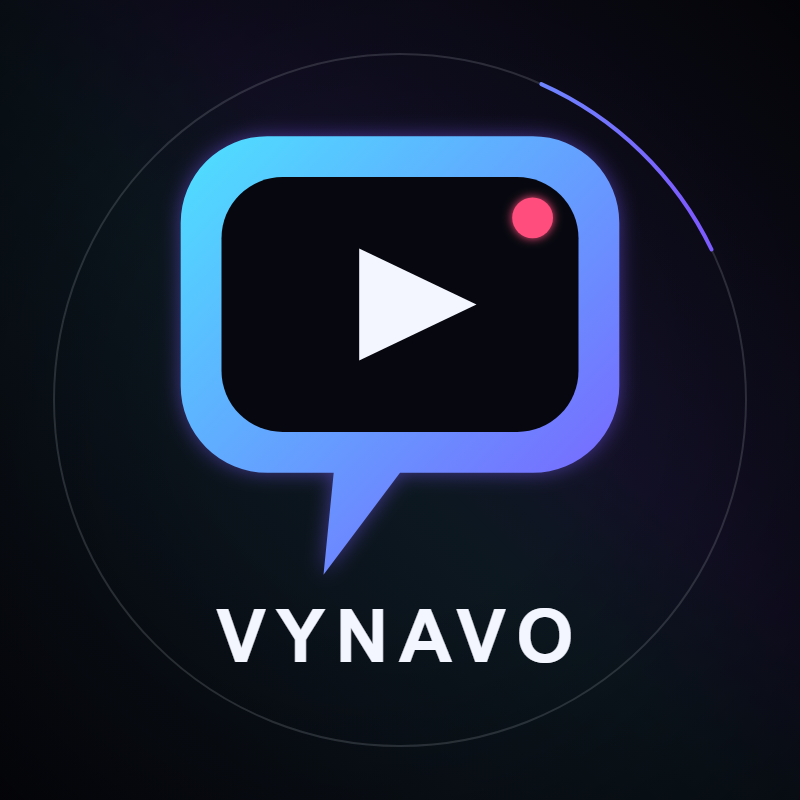
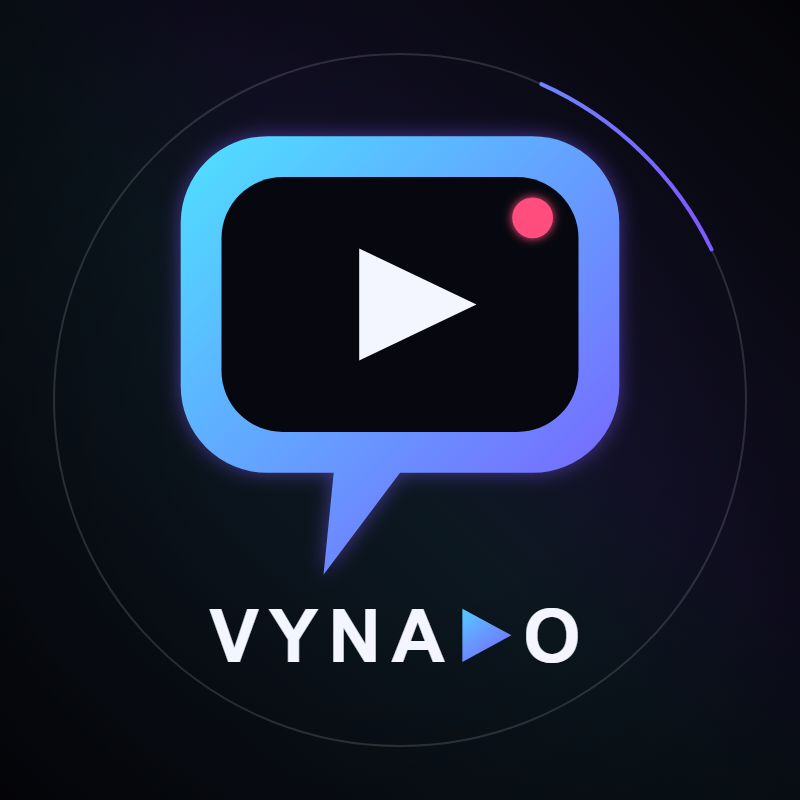
identidad final F+C: simbolo La Burbuja + wordmark VYNA-play-O en perfil y portada

Changed region(s): [[0.25, 0.75, 0.75, 0.8438]]

diff --git a/brand/brand4.html b/brand/brand4.html
@@ -58,6 +58,28 @@ function fondo(ctx,W,H,intenso){
   ctx.fillStyle=r;ctx.fillRect(0,0,W,H);
 }
 
+
+// ── Wordmark C: VYNA▶O — el play sustituye a la segunda V ──────────────────
+function wordmarkPlay(ctx,cx,cy,px,track){
+  ctx.font=`700 ${px}px "Space Grotesk", Inter, sans-serif`;
+  ctx.letterSpacing=`${track}px`;
+  const t1="VYNA", t2="O";
+  const w1=ctx.measureText(t1).width;
+  const playW=px*0.72, gap=px*0.10;
+  const w2=ctx.measureText(t2).width;
+  const total=w1+gap+playW+gap+w2;
+  const x0=cx-total/2;
+  ctx.fillStyle=TX;ctx.fillText(t1,x0,cy);
+  const pxx=x0+w1+gap;
+  const g=grad(ctx,pxx,cy-px,pxx+playW,cy);
+  ctx.fillStyle=g;
+  ctx.beginPath();
+  ctx.moveTo(pxx,cy-px*0.72);ctx.lineTo(pxx+playW*0.92,cy-px*0.36);ctx.lineTo(pxx,cy);ctx.closePath();ctx.fill();
+  ctx.fillStyle=TX;ctx.fillText(t2,pxx+playW+gap,cy);
+  ctx.letterSpacing="0px";
+  return total;
+}
+
 function drawPerfil(){
   const c=document.getElementById("perfil"),ctx=c.getContext("2d");
   fondo(ctx,800,800,true);
@@ -66,11 +88,7 @@ function drawPerfil(){
   ctx.beginPath();ctx.arc(400,400,346,-1.15,-0.45);
   ctx.strokeStyle=grad(ctx,120,80,680,240);ctx.lineWidth=4;ctx.lineCap="round";ctx.stroke();
   mark(ctx,400,330,2.55);
-  ctx.font="700 74px 'Space Grotesk', Inter, sans-serif";
-  ctx.letterSpacing="10px";
-  const t="VYNAVO", w=ctx.measureText(t).width;
-  ctx.fillStyle=TX;ctx.fillText(t,(800-w)/2,662);
-  ctx.letterSpacing="0px";
+  wordmarkPlay(ctx,400,662,74,10);
 }
 
 function drawBanner(){
@@ -78,11 +96,7 @@ function drawBanner(){
   const W=2560,H=1440;fondo(ctx,W,H,false);
   const cy=H/2-20;
   mark(ctx,W/2,cy-170,1.2);
-  ctx.font="700 176px 'Space Grotesk', Inter, sans-serif";
-  ctx.letterSpacing="22px";
-  const t="VYNAVO", w=ctx.measureText(t).width;
-  ctx.fillStyle=TX;ctx.fillText(t,(W-w)/2,cy+128);
-  ctx.letterSpacing="0px";
+  wordmarkPlay(ctx,W/2,cy+128,176,22);
   const lw=560;
   ctx.fillStyle=grad(ctx,W/2-lw/2,0,W/2+lw/2,0);
   ctx.fillRect(W/2-lw/2,cy+178,lw,2);

diff --git a/brand/solo4-banner.html b/brand/solo4-banner.html
@@ -57,6 +57,28 @@ function fondo(ctx,W,H,intenso){
   ctx.fillStyle=r;ctx.fillRect(0,0,W,H);
 }
 
+
+// ── Wordmark C: VYNA▶O — el play sustituye a la segunda V ──────────────────
+function wordmarkPlay(ctx,cx,cy,px,track){
+  ctx.font=`700 ${px}px "Space Grotesk", Inter, sans-serif`;
+  ctx.letterSpacing=`${track}px`;
+  const t1="VYNA", t2="O";
+  const w1=ctx.measureText(t1).width;
+  const playW=px*0.72, gap=px*0.10;
+  const w2=ctx.measureText(t2).width;
+  const total=w1+gap+playW+gap+w2;
+  const x0=cx-total/2;
+  ctx.fillStyle=TX;ctx.fillText(t1,x0,cy);
+  const pxx=x0+w1+gap;
+  const g=grad(ctx,pxx,cy-px,pxx+playW,cy);
+  ctx.fillStyle=g;
+  ctx.beginPath();
+  ctx.moveTo(pxx,cy-px*0.72);ctx.lineTo(pxx+playW*0.92,cy-px*0.36);ctx.lineTo(pxx,cy);ctx.closePath();ctx.fill();
+  ctx.fillStyle=TX;ctx.fillText(t2,pxx+playW+gap,cy);
+  ctx.letterSpacing="0px";
+  return total;
+}
+
 function drawPerfil(){
   const c=document.getElementById("perfil"),ctx=c.getContext("2d");
   fondo(ctx,800,800,true);
@@ -65,11 +87,7 @@ function drawPerfil(){
   ctx.beginPath();ctx.arc(400,400,346,-1.15,-0.45);
   ctx.strokeStyle=grad(ctx,120,80,680,240);ctx.lineWidth=4;ctx.lineCap="round";ctx.stroke();
   mark(ctx,400,330,2.55);
-  ctx.font="700 74px 'Space Grotesk', Inter, sans-serif";
-  ctx.letterSpacing="10px";
-  const t="VYNAVO", w=ctx.measureText(t).width;
-  ctx.fillStyle=TX;ctx.fillText(t,(800-w)/2,662);
-  ctx.letterSpacing="0px";
+  wordmarkPlay(ctx,400,662,74,10);
 }
 
 function drawBanner(){
@@ -77,11 +95,7 @@ function drawBanner(){
   const W=2560,H=1440;fondo(ctx,W,H,false);
   const cy=H/2-20;
   mark(ctx,W/2,cy-170,1.2);
-  ctx.font="700 176px 'Space Grotesk', Inter, sans-serif";
-  ctx.letterSpacing="22px";
-  const t="VYNAVO", w=ctx.measureText(t).width;
-  ctx.fillStyle=TX;ctx.fillText(t,(W-w)/2,cy+128);
-  ctx.letterSpacing="0px";
+  wordmarkPlay(ctx,W/2,cy+128,176,22);
   const lw=560;
   ctx.fillStyle=grad(ctx,W/2-lw/2,0,W/2+lw/2,0);
   ctx.fillRect(W/2-lw/2,cy+178,lw,2);

diff --git a/brand/solo4-perfil.html b/brand/solo4-perfil.html
@@ -57,6 +57,28 @@ function fondo(ctx,W,H,intenso){
   ctx.fillStyle=r;ctx.fillRect(0,0,W,H);
 }
 
+
+// ── Wordmark C: VYNA▶O — el play sustituye a la segunda V ──────────────────
+function wordmarkPlay(ctx,cx,cy,px,track){
+  ctx.font=`700 ${px}px "Space Grotesk", Inter, sans-serif`;
+  ctx.letterSpacing=`${track}px`;
+  const t1="VYNA", t2="O";
+  const w1=ctx.measureText(t1).width;
+  const playW=px*0.72, gap=px*0.10;
+  const w2=ctx.measureText(t2).width;
+  const total=w1+gap+playW+gap+w2;
+  const x0=cx-total/2;
+  ctx.fillStyle=TX;ctx.fillText(t1,x0,cy);
+  const pxx=x0+w1+gap;
+  const g=grad(ctx,pxx,cy-px,pxx+playW,cy);
+  ctx.fillStyle=g;
+  ctx.beginPath();
+  ctx.moveTo(pxx,cy-px*0.72);ctx.lineTo(pxx+playW*0.92,cy-px*0.36);ctx.lineTo(pxx,cy);ctx.closePath();ctx.fill();
+  ctx.fillStyle=TX;ctx.fillText(t2,pxx+playW+gap,cy);
+  ctx.letterSpacing="0px";
+  return total;
+}
+
 function drawPerfil(){
   const c=document.getElementById("perfil"),ctx=c.getContext("2d");
   fondo(ctx,800,800,true);
@@ -65,11 +87,7 @@ function drawPerfil(){
   ctx.beginPath();ctx.arc(400,400,346,-1.15,-0.45);
   ctx.strokeStyle=grad(ctx,120,80,680,240);ctx.lineWidth=4;ctx.lineCap="round";ctx.stroke();
   mark(ctx,400,330,2.55);
-  ctx.font="700 74px 'Space Grotesk', Inter, sans-serif";
-  ctx.letterSpacing="10px";
-  const t="VYNAVO", w=ctx.measureText(t).width;
-  ctx.fillStyle=TX;ctx.fillText(t,(800-w)/2,662);
-  ctx.letterSpacing="0px";
+  wordmarkPlay(ctx,400,662,74,10);
 }
 
 function drawBanner(){
@@ -77,11 +95,7 @@ function drawBanner(){
   const W=2560,H=1440;fondo(ctx,W,H,false);
   const cy=H/2-20;
   mark(ctx,W/2,cy-170,1.2);
-  ctx.font="700 176px 'Space Grotesk', Inter, sans-serif";
-  ctx.letterSpacing="22px";
-  const t="VYNAVO", w=ctx.measureText(t).width;
-  ctx.fillStyle=TX;ctx.fillText(t,(W-w)/2,cy+128);
-  ctx.letterSpacing="0px";
+  wordmarkPlay(ctx,W/2,cy+128,176,22);
   const lw=560;
   ctx.fillStyle=grad(ctx,W/2-lw/2,0,W/2+lw/2,0);
   ctx.fillRect(W/2-lw/2,cy+178,lw,2);
